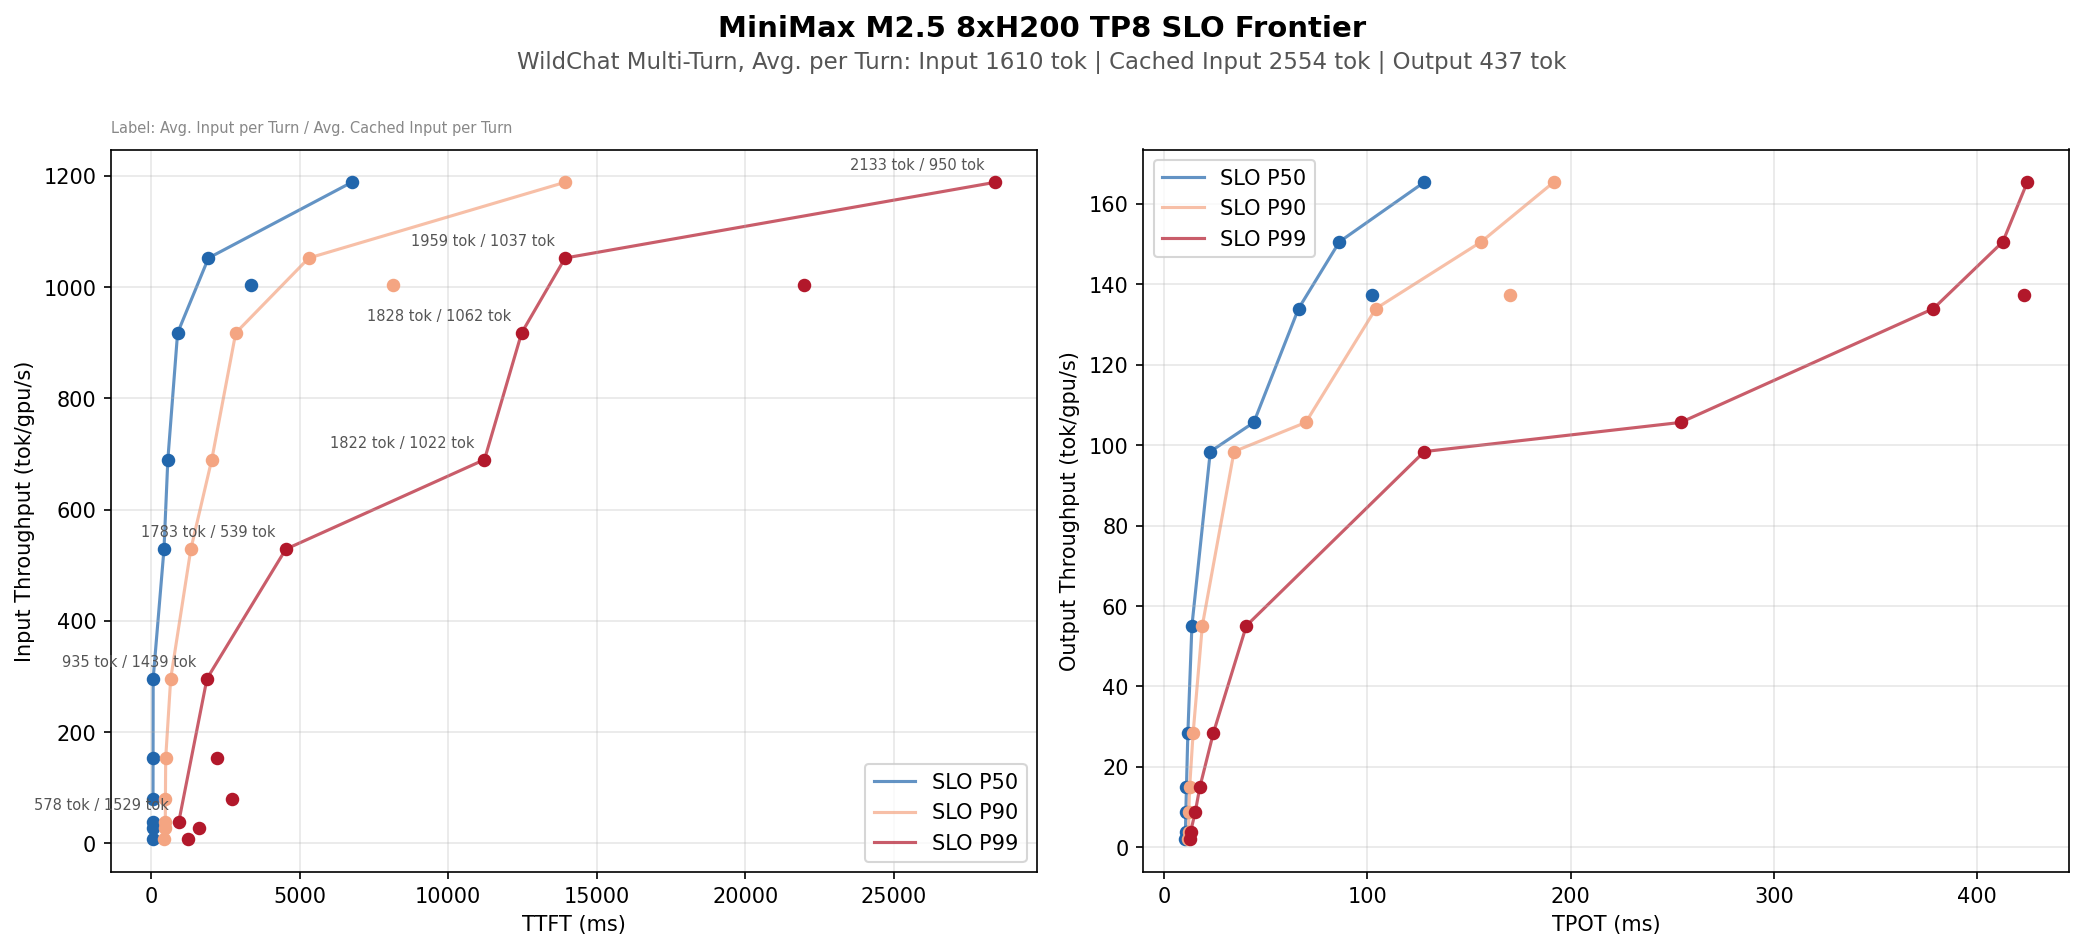
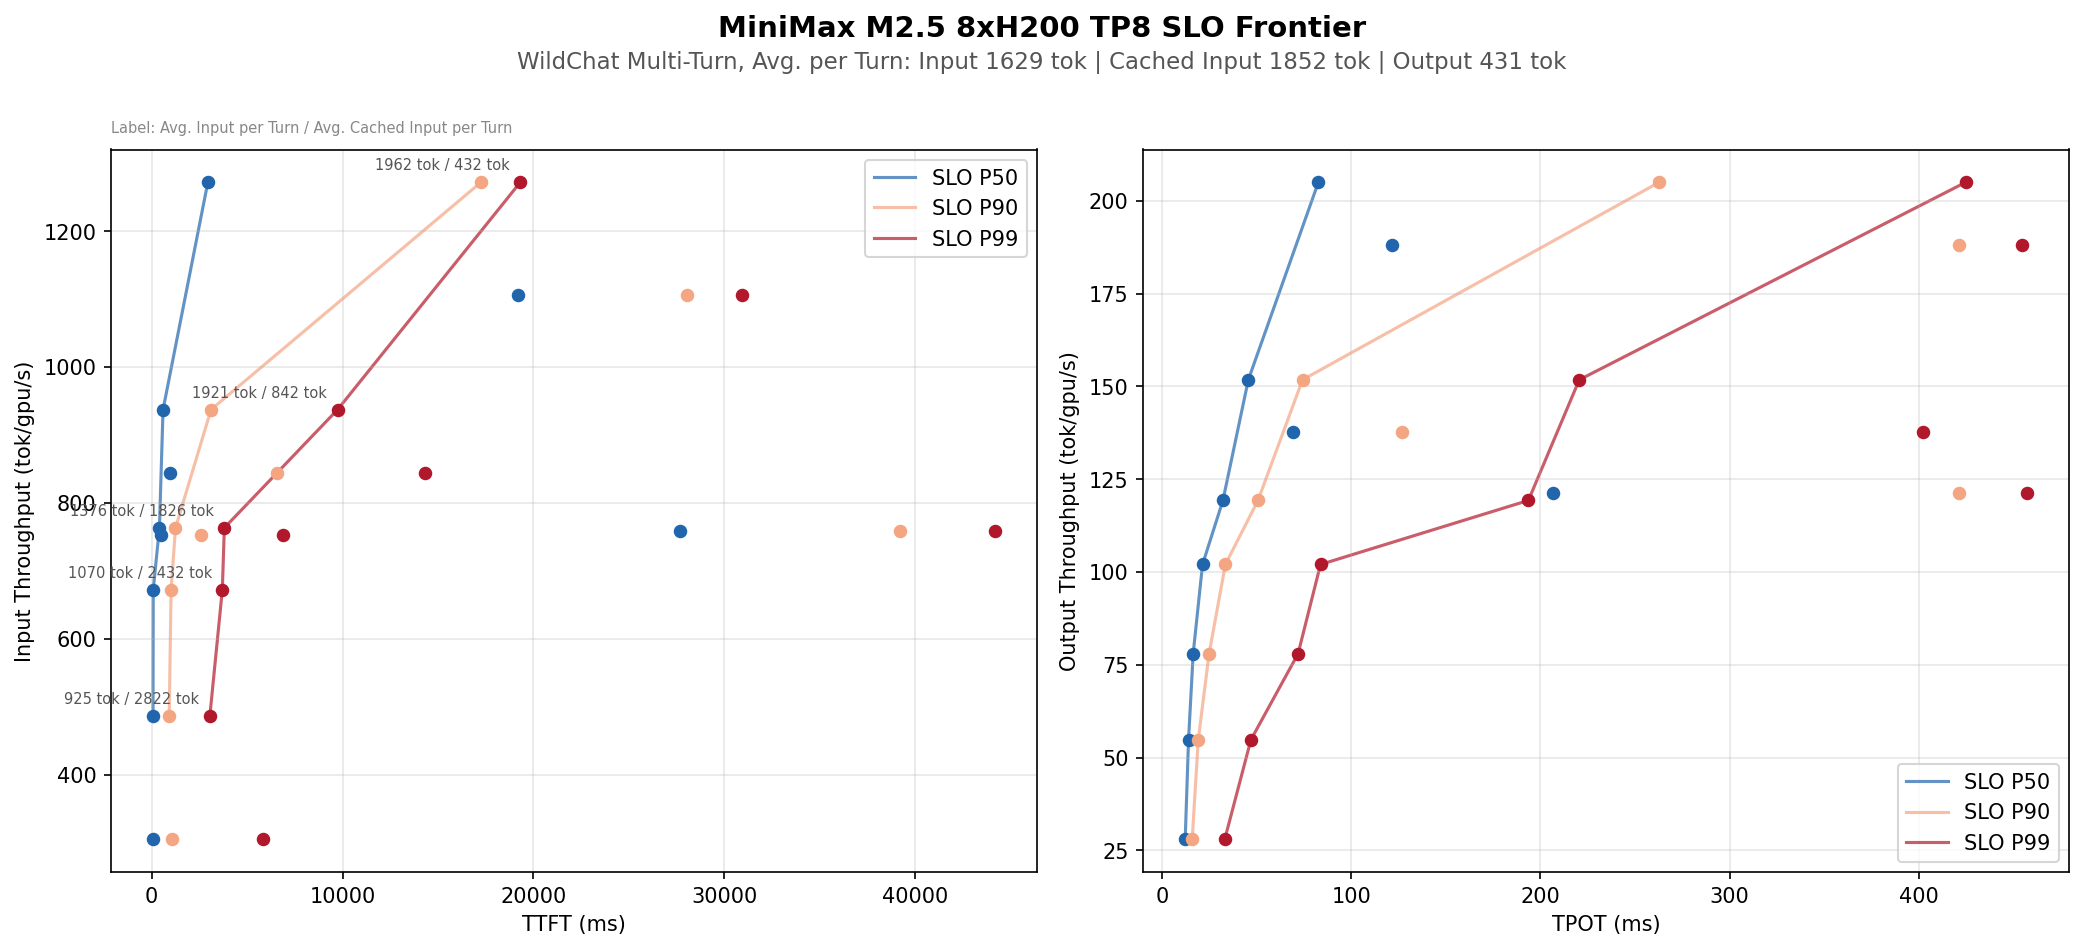
Fix multiprocessing queue deadlocks with early stop
Three fixes to prevent hangs when early stop triggers:
- Send only session IDs (not full messages) through session_queue
  to avoid blocking on large serialized objects in pipe buffer
- Use get_nowait() for result_queue draining to avoid blocking on
  empty() race conditions
- Use cancel_join_thread() for task queue cleanup to avoid hanging
  on feeder threads that can't flush to dead client processes

diff --git a/multiturn_benchmark/bench_serving_multiturn.py b/multiturn_benchmark/bench_serving_multiturn.py
@@ -794,8 +794,10 @@ async def client_main(
                     total_rounds = min(args.max_turns, total_rounds)
 
                 if rounds_done[session_id] >= total_rounds:
-                    # Session complete
-                    session_queue.put((session_id, active_sessions.pop(session_id)))
+                    # Session complete — send only ID (not messages) to avoid
+                    # blocking on large serialized data in the pipe buffer
+                    active_sessions.pop(session_id)
+                    session_queue.put((session_id, None))
                     if args.verbose:
                         logger.info(
                             f"{Color.GREEN}Client {client_id} finished "
@@ -1002,15 +1004,29 @@ async def main_mp(
 
     debug_stats = DebugStats(logger, min(15 * bench_args.num_clients, 500))
 
-    while num_clients_finished < bench_args.num_clients:
-        # Collect updated session
-        session_id, messages = session_queue.get()
+    import queue as _queue
 
-        # Collect results (measurements)
-        while not result_queue.empty():
-            new_data = result_queue.get()
-            client_metrics.append(new_data)
-            debug_stats.update(new_data)
+    def _drain_result_queue():
+        """Non-blocking drain of result_queue."""
+        while True:
+            try:
+                new_data = result_queue.get_nowait()
+                client_metrics.append(new_data)
+                debug_stats.update(new_data)
+            except _queue.Empty:
+                break
+
+    while num_clients_finished < bench_args.num_clients:
+        _drain_result_queue()
+
+        # Use timeout to periodically drain result_queue even when
+        # session_queue has no new items
+        try:
+            session_id, messages = session_queue.get(timeout=1.0)
+        except _queue.Empty:
+            continue
+
+        _drain_result_queue()
 
         if session_id is TERM_SIGNAL:
             num_clients_finished += 1
@@ -1025,7 +1041,7 @@ async def main_mp(
                 )
                 stop_event.set()
         else:
-            output_sessions[session_id] = messages
+            output_sessions[session_id] = messages  # None (data stays in client)
 
             finished_sessions = len(output_sessions)
             percent = finished_sessions / total_sessions
@@ -1095,17 +1111,11 @@ async def main_mp(
         f"finished {len(output_sessions)} out of {total_sessions} sessions)"
     )
 
-    # Clean up queues
-    unfinished_tasks = 0
+    # Clean up per-client task queues. Use cancel_join_thread() to avoid
+    # hanging on feeder threads that can't flush to dead client processes.
     for tq in task_queues:
-        while not tq.empty():
-            tq.get()
-            unfinished_tasks += 1
+        tq.cancel_join_thread()
         tq.close()
-        tq.join_thread()
-
-    if unfinished_tasks > 0:
-        logger.debug(f"Discarding {unfinished_tasks} unfinished tasks")
 
     result_queue.close()
     result_queue.join_thread()
